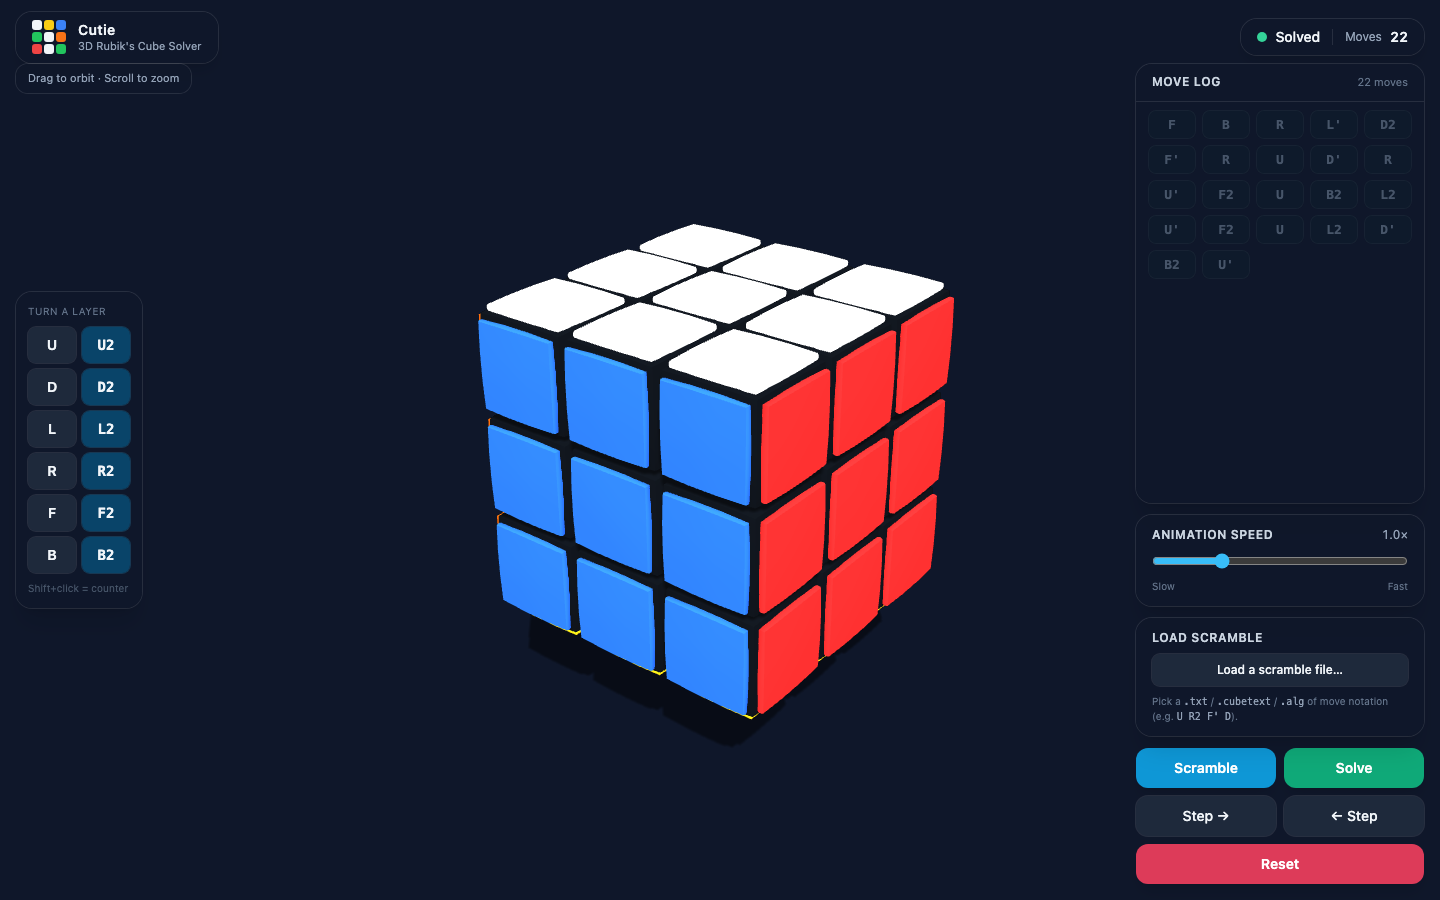
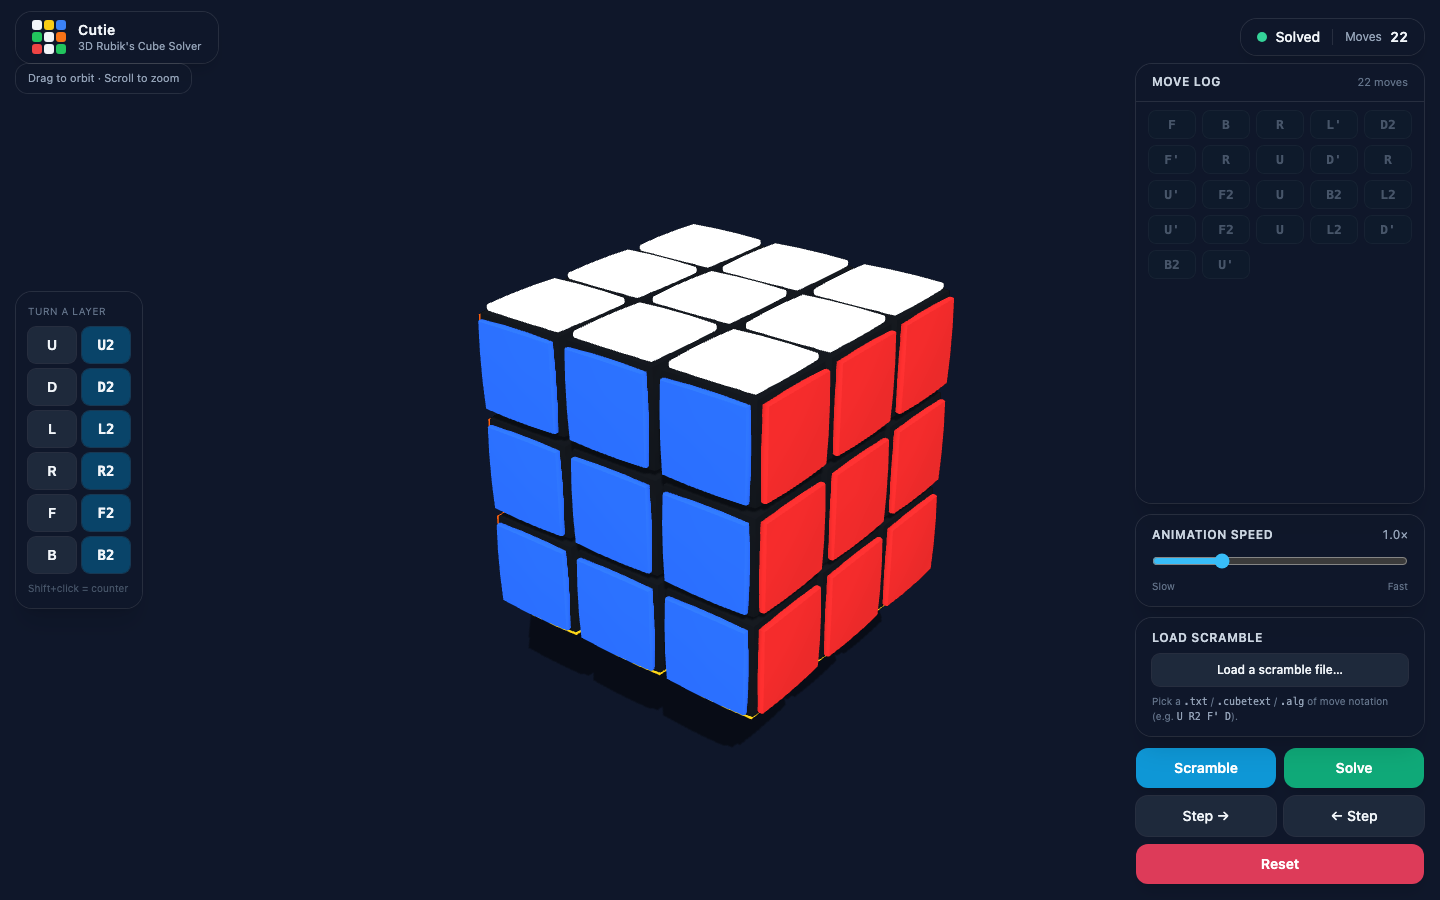
Upgrade three.js 0.150.1 -> 0.187.0 (ESM) and restore lighting
- three.js is now ESM-only (the UMD/global build was removed after r150);
  load it as an ES module and re-expose as window.THREE so the app and
  tools/boot-probe.js are unchanged. Works over file:// via an https import.
- r155 switched the default light model to physically-based, which dimmed
  the old ~1.0 light intensities; scale ambient/key/fill by ~pi
  (2.8 / 3.3 / 1.1) to restore the pre-upgrade look. No material changes.
- Regenerate docs/screenshots/*.png to match v187 + new lighting.

Changed region(s): [[0.3438, 0.4667, 0.5312, 0.7778], [0.3125, 0.3422, 0.5312, 0.5289]]

diff --git a/index.html b/index.html
@@ -5,7 +5,10 @@
 <meta name="viewport" content="width=device-width, initial-scale=1.0" />
 <title>Cutie — 3D Rubik's Cube Solver</title>
 <script src="https://cdn.tailwindcss.com"></script>
-<script src="https://cdn.jsdelivr.net/npm/three@0.150.1/build/three.min.js"></script>
+<!-- three.js is now ESM-only (the UMD/global build/three.min.js was removed after
+     r150). It is imported as an ES module by the app script at the bottom of the
+     body and re-exposed as window.THREE, so the rest of the code is unchanged.
+     An https module import works even from a file:// page. -->
 <style>
   :root { color-scheme: dark; }
   html, body { height: 100%; margin: 0; }
@@ -171,8 +174,12 @@
   <script src="https://cdn.jsdelivr.net/npm/cubejs@1.3.2/lib/cube.js"></script>
   <script src="https://cdn.jsdelivr.net/npm/cubejs@1.3.2/lib/solve.js"></script>
 
-  <script>
+  <script type="module">
   "use strict";
+  // Latest three.js ships ESM-only; import it and re-expose as the window.THREE
+  // global the rest of this app (and tools/boot-probe.js) expect.
+  import * as THREE from 'https://cdn.jsdelivr.net/npm/three@0.187.0/build/three.module.js';
+  window.THREE = THREE;
   /* ============================================================================
    *  CUBE CORE — the framework-free mathematical model of the cube.
    *
@@ -339,8 +346,11 @@
   wrap.appendChild(renderer.domElement);
 
   // Lights
-  scene.add(new THREE.AmbientLight(0xffffff, 0.9));
-  const key = new THREE.DirectionalLight(0xffffff, 1.05);
+  // NOTE: since three.js r155 the default light model is physically-based
+  // (pre-r155 "legacy" intensities were ~pi times brighter). r150-era values
+  // therefore read dim on r187; these are scaled by ~pi to restore the look.
+  scene.add(new THREE.AmbientLight(0xffffff, 2.8));
+  const key = new THREE.DirectionalLight(0xffffff, 3.3);
   key.position.set(8, 12, 9);
   key.castShadow = true;
   key.shadow.mapSize.set(1024, 1024);
@@ -349,7 +359,7 @@
   key.shadow.camera.top = 6; key.shadow.camera.bottom = -6;
   key.shadow.bias = -0.0002;
   scene.add(key);
-  const fill = new THREE.DirectionalLight(0x88aaff, 0.35);
+  const fill = new THREE.DirectionalLight(0x88aaff, 1.1);
   fill.position.set(-6, -4, -8);
   scene.add(fill);
 
